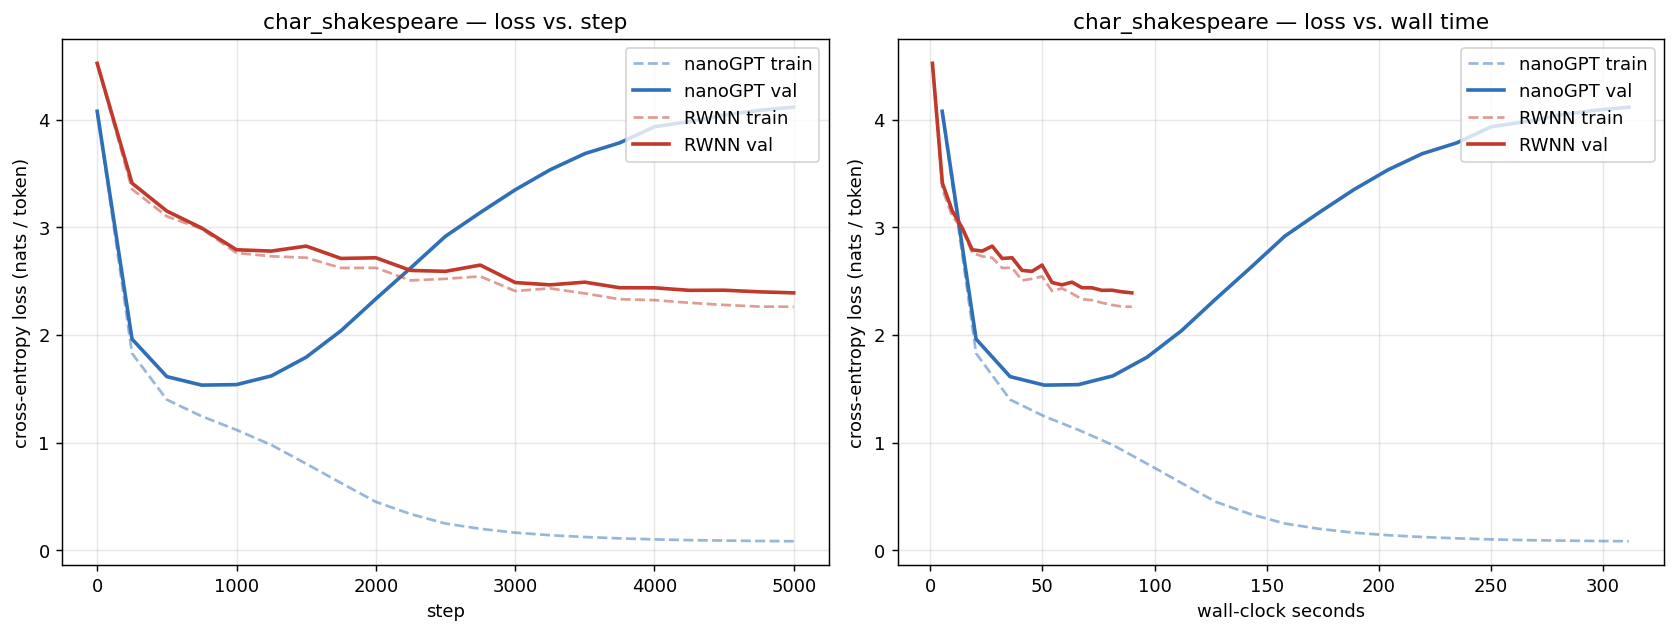
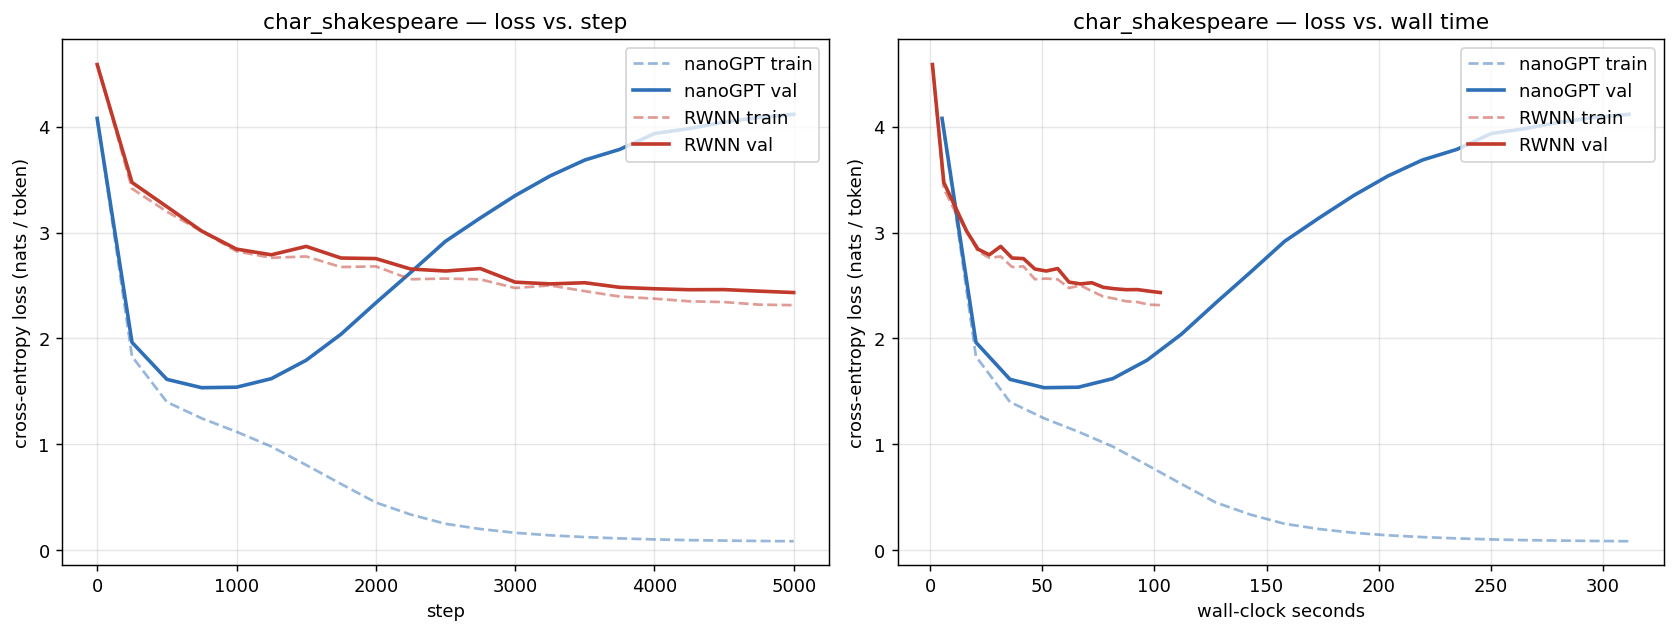
Compact weight tensor: only kind 0/1 edges have learnable weights
Product (kind=2) and softmax-aggregator (kind=3) nodes don't have
learnable weights — every incoming edge is a pure activation read.
Previously the weights tensor allocated a slot per edge regardless of
destination kind; the unused slots inflated the reported parameter
count. The fix is a compact CSR-style index:

  RandomDAG.node_weight_offsets : int32 [N+1]
  RandomDAG.n_live_edges        : int  (= node_weight_offsets[-1])

Only kind-0 and kind-1 destinations contribute slots; kind-2 and kind-3
contribute zero. The three Triton kernels (forward_level,
backward_propagate, backward_weight) now address weights as
weights[w_start + (k - start)] instead of weights[k], where
w_start = node_weight_offsets[i].

Numerics unchanged — the previous code was zero-weight-padding the
unused slots; the compact tensor is bookkeeping only.

comparison/configs.py: char_shakespeare bumped n_nodes 35,000 -> 36,500
so live RWNN params (10,806,924) match nanoGPT's 10,745,088 within 0.6%.

Char-Shakespeare rerun under the new accounting reproduced the previous
val 2.4337 exactly (CSV/log/PNG regenerated).

diff --git a/LLM/src/rwnn/kernels.py b/LLM/src/rwnn/kernels.py
@@ -43,11 +43,12 @@ from triton.language.extra import libdevice
 def forward_level_kernel(
     a_ptr,                 # float32 [N, B] — activations (written for this level)
     pre_ptr,               # float32 [N, B] — pre-activations (written for this level)
-    weights_ptr,           # float32 [E]
+    weights_ptr,           # float32 [E_live]   — only weighted edges (kind 0,1 destinations)
     level_nodes_ptr,       # int32   [n_level]
     parent_offsets_ptr,    # int32   [N+1]
     parent_ids_ptr,        # int32   [E]
-    node_kinds_ptr,        # int8    [N] — 0 linear, 1 bilinear
+    node_kinds_ptr,        # int8    [N] — 0 linear, 1 bilinear, 2 product, 3 attention
+    node_weight_offsets_ptr,  # int32 [N+1] — start of node i's weights in weights_ptr
     B,                     # int — batch size
     BLOCK_B: tl.constexpr,
     ACT: tl.constexpr,     # 0 = linear, 1 = tanh
@@ -59,6 +60,7 @@ def forward_level_kernel(
     start = tl.load(parent_offsets_ptr + i).to(tl.int64)
     end = tl.load(parent_offsets_ptr + i + 1).to(tl.int64)
     kind = tl.load(node_kinds_ptr + i).to(tl.int32)
+    w_start = tl.load(node_weight_offsets_ptr + i).to(tl.int64)
 
     offs_b = pid_b * BLOCK_B + tl.arange(0, BLOCK_B)
     mask_b = offs_b < B
@@ -69,7 +71,7 @@ def forward_level_kernel(
         # LINEAR: simple weighted sum over parents.
         for k in range(start, end):
             j = tl.load(parent_ids_ptr + k).to(tl.int64)
-            w = tl.load(weights_ptr + k)
+            w = tl.load(weights_ptr + w_start + (k - start))
             a_j = tl.load(a_ptr + j * B + offs_b, mask=mask_b, other=0.0)
             acc += w * a_j
     elif kind == 1:
@@ -77,8 +79,8 @@ def forward_level_kernel(
         for k in range(start, end, 2):
             jg = tl.load(parent_ids_ptr + k).to(tl.int64)
             jv = tl.load(parent_ids_ptr + k + 1).to(tl.int64)
-            wg = tl.load(weights_ptr + k)
-            wv = tl.load(weights_ptr + k + 1)
+            wg = tl.load(weights_ptr + w_start + (k - start))
+            wv = tl.load(weights_ptr + w_start + (k - start) + 1)
             a_g = tl.load(a_ptr + jg * B + offs_b, mask=mask_b, other=0.0)
             a_v = tl.load(a_ptr + jv * B + offs_b, mask=mask_b, other=0.0)
             zg = wg * a_g
@@ -172,11 +174,12 @@ def backward_propagate_kernel(
     a_ptr,                  # float32 [N, B] — needed to recompute g, v, scores
     pre_ptr,                # float32 [N, B] — needed for softmax-agg backward
     d_pre_ptr,              # float32 [N, B]
-    weights_ptr,            # float32 [E]
+    weights_ptr,            # float32 [E_live]
     level_nodes_ptr,        # int32 [n_level]
     parent_offsets_ptr,     # int32 [N+1]
     parent_ids_ptr,         # int32 [E]
     node_kinds_ptr,         # int8  [N]
+    node_weight_offsets_ptr,  # int32 [N+1]
     B,
     BLOCK_B: tl.constexpr,
 ):
@@ -187,6 +190,7 @@ def backward_propagate_kernel(
     start = tl.load(parent_offsets_ptr + i).to(tl.int64)
     end = tl.load(parent_offsets_ptr + i + 1).to(tl.int64)
     kind = tl.load(node_kinds_ptr + i).to(tl.int32)
+    w_start = tl.load(node_weight_offsets_ptr + i).to(tl.int64)
 
     offs_b = pid_b * BLOCK_B + tl.arange(0, BLOCK_B)
     mask_b = offs_b < B
@@ -197,7 +201,7 @@ def backward_propagate_kernel(
         # LINEAR: each edge contributes w * d_pre to its parent.
         for k in range(start, end):
             j = tl.load(parent_ids_ptr + k).to(tl.int64)
-            w = tl.load(weights_ptr + k)
+            w = tl.load(weights_ptr + w_start + (k - start))
             tl.atomic_add(d_a_ptr + j * B + offs_b, w * d_pre_i, mask=mask_b)
     elif kind == 1:
         # BILINEAR: each (gate, value) pair contributes
@@ -207,8 +211,8 @@ def backward_propagate_kernel(
         for k in range(start, end, 2):
             jg = tl.load(parent_ids_ptr + k).to(tl.int64)
             jv = tl.load(parent_ids_ptr + k + 1).to(tl.int64)
-            wg = tl.load(weights_ptr + k)
-            wv = tl.load(weights_ptr + k + 1)
+            wg = tl.load(weights_ptr + w_start + (k - start))
+            wv = tl.load(weights_ptr + w_start + (k - start) + 1)
             a_g = tl.load(a_ptr + jg * B + offs_b, mask=mask_b, other=0.0)
             a_v = tl.load(a_ptr + jv * B + offs_b, mask=mask_b, other=0.0)
             zg = wg * a_g
@@ -265,13 +269,14 @@ def backward_propagate_kernel(
 def backward_weight_kernel(
     a_ptr,                  # float32 [N, B]
     d_pre_ptr,              # float32 [N, B]
-    weights_ptr,            # float32 [E]    — needed for bilinear partner weight
+    weights_ptr,            # float32 [E_live]   — needed for bilinear partner weight
     edge_src_ptr,           # int32 [E]
     edge_dst_ptr,           # int32 [E]
     parent_offsets_ptr,     # int32 [N+1]    — to compute partner edge index
     parent_ids_ptr,         # int32 [E]      — to look up partner src
     node_kinds_ptr,         # int8  [N]
-    d_w_ptr,                # float32 [E]    — output
+    node_weight_offsets_ptr,  # int32 [N+1]
+    d_w_ptr,                # float32 [E_live]   — gradient for compact weights
     B,
     BLOCK_B: tl.constexpr,
 ):
@@ -280,6 +285,17 @@ def backward_weight_kernel(
     src = tl.load(edge_src_ptr + e).to(tl.int64)
     dst = tl.load(edge_dst_ptr + e).to(tl.int64)
     kind = tl.load(node_kinds_ptr + dst).to(tl.int32)
+
+    # PRODUCT (2) and SOFTMAX_AGG (3): no weight allocated, no gradient
+    # to compute. Skip entirely (no store needed — weights tensor doesn't
+    # have a slot for this edge).
+    if kind >= 2:
+        return
+
+    dst_parent_start = tl.load(parent_offsets_ptr + dst).to(tl.int64)
+    dst_w_start = tl.load(node_weight_offsets_ptr + dst).to(tl.int64)
+    pos_in_dst = e - dst_parent_start
+    w_idx = dst_w_start + pos_in_dst
 
     if kind == 0:
         # LINEAR: d w_e = Σ_b a[src, b] * d_pre[dst, b]
@@ -293,25 +309,21 @@ def backward_weight_kernel(
             acc += a_src * d_pre_dst
             off += BLOCK_B
         total = tl.sum(acc, axis=0)
-        tl.store(d_w_ptr + e, total)
-    elif kind >= 2:
-        # PRODUCT (2) and SOFTMAX_AGG (3) have no learnable weights — the
-        # weight tensor entries for these edges are unused. d_w[e] = 0.
-        tl.store(d_w_ptr + e, 0.0)
+        tl.store(d_w_ptr + w_idx, total)
     else:
         # BILINEAR: depends on whether this edge is the gate (even pos in
         # parent list) or the value (odd pos). Partner edge gives us the
         # other side of the pair.
-        dst_start = tl.load(parent_offsets_ptr + dst).to(tl.int64)
-        pos = e - dst_start
-        is_gate = (pos % 2) == 0
+        is_gate = (pos_in_dst % 2) == 0
         if is_gate:
             partner_e = e + 1
+            partner_w_idx = w_idx + 1
         else:
             partner_e = e - 1
+            partner_w_idx = w_idx - 1
         partner_src = tl.load(parent_ids_ptr + partner_e).to(tl.int64)
-        w_partner = tl.load(weights_ptr + partner_e)
-        w_self = tl.load(weights_ptr + e)
+        w_partner = tl.load(weights_ptr + partner_w_idx)
+        w_self = tl.load(weights_ptr + w_idx)
 
         acc = tl.zeros([BLOCK_B], dtype=tl.float32)
         off = 0
@@ -337,4 +349,4 @@ def backward_weight_kernel(
                 acc += g * a_self * d_pre_dst
             off += BLOCK_B
         total = tl.sum(acc, axis=0)
-        tl.store(d_w_ptr + e, total)
+        tl.store(d_w_ptr + w_idx, total)

diff --git a/LLM/src/rwnn/model.py b/LLM/src/rwnn/model.py
@@ -35,7 +35,7 @@ class RWNNFunction(torch.autograd.Function):
     def forward(
         ctx,
         x: torch.Tensor,             # [B, n_in]
-        weights: torch.Tensor,       # [E]
+        weights: torch.Tensor,       # [E_live]
         parent_offsets: torch.Tensor,
         parent_ids: torch.Tensor,
         edge_src: torch.Tensor,
@@ -47,6 +47,7 @@ class RWNNFunction(torch.autograd.Function):
         bias_ids: torch.Tensor,
         output_ids: torch.Tensor,
         node_kinds: torch.Tensor,
+        node_weight_offsets: torch.Tensor,
         n_nodes: int,
     ) -> torch.Tensor:
         assert x.is_cuda and weights.is_cuda, "RWNN requires CUDA tensors"
@@ -84,6 +85,7 @@ class RWNNFunction(torch.autograd.Function):
                 parent_offsets,
                 parent_ids,
                 node_kinds,
+                node_weight_offsets,
                 B,
                 BLOCK_B=_BLOCK_B,
                 ACT=act,
@@ -95,11 +97,12 @@ class RWNNFunction(torch.autograd.Function):
             a, pre, weights,
             parent_offsets, parent_ids, edge_src, edge_dst,
             level_nodes, level_starts, level_is_output,
-            input_ids, output_ids, node_kinds,
+            input_ids, output_ids, node_kinds, node_weight_offsets,
         )
         ctx.B = B
         ctx.N = N
         ctx.n_edges = int(edge_src.numel())
+        ctx.n_live_edges = int(weights.numel())
         return out
 
     @staticmethod
@@ -107,10 +110,12 @@ class RWNNFunction(torch.autograd.Function):
         (a, pre, weights,
          parent_offsets, parent_ids, edge_src, edge_dst,
          level_nodes, level_starts, level_is_output,
-         input_ids, output_ids, node_kinds) = ctx.saved_tensors
+         input_ids, output_ids, node_kinds,
+         node_weight_offsets) = ctx.saved_tensors
         B = ctx.B
         N = ctx.N
         E = ctx.n_edges
+        E_live = ctx.n_live_edges
         device = a.device
 
         d_a = torch.zeros((N, B), device=device, dtype=torch.float32)
@@ -137,16 +142,18 @@ class RWNNFunction(torch.autograd.Function):
             )
             backward_propagate_kernel[grid](
                 d_a, a, pre, d_pre, weights, level_slice,
-                parent_offsets, parent_ids, node_kinds,
+                parent_offsets, parent_ids, node_kinds, node_weight_offsets,
                 B, BLOCK_B=_BLOCK_B,
             )
 
-        # Per-edge weight gradient.
-        d_w = torch.zeros(E, device=device, dtype=torch.float32)
+        # Per-(live-)edge weight gradient. d_w has compact shape [E_live].
+        # Kernel grid still iterates all E edges; for kind 2/3 destinations
+        # the kernel returns early without writing.
+        d_w = torch.zeros(E_live, device=device, dtype=torch.float32)
         if E > 0:
             backward_weight_kernel[(E,)](
                 a, d_pre, weights, edge_src, edge_dst,
-                parent_offsets, parent_ids, node_kinds,
+                parent_offsets, parent_ids, node_kinds, node_weight_offsets,
                 d_w,
                 B, BLOCK_B=_BLOCK_B,
             )
@@ -157,7 +164,7 @@ class RWNNFunction(torch.autograd.Function):
         # Return grads for every argument of forward() in order.
         return (d_x, d_w,
                 None, None, None, None, None, None, None,
-                None, None, None, None, None)
+                None, None, None, None, None, None)
 
 
 class RWNN(torch.nn.Module):
@@ -173,20 +180,28 @@ class RWNN(torch.nn.Module):
         graph = graph.to(device)
         self._n_nodes = graph.n_nodes
         self._n_edges = graph.n_edges
+        self._n_live_edges = graph.n_live_edges
         self._n_levels = graph.n_levels
         self._n_in = graph.n_in
         self._n_bias = graph.n_bias
         self._n_hidden = graph.n_hidden
         self._n_out = graph.n_out
 
-        # Per-destination Xavier-ish weight init: U(-k, +k) with
-        # k = sqrt(6 / (fan_in + fan_out_estimate)), but fan_out varies
-        # wildly per node in a random DAG. Use the simpler 1/sqrt(fan_in)
-        # rule evaluated per destination.
+        # Per-destination 1/√fan_in init, only for *live* edges (i.e. those
+        # going into kind 0 or 1 destinations). Product (kind 2) and
+        # softmax-aggregator (kind 3) nodes have no learnable per-edge
+        # weights; we don't allocate slots for them.
         edge_dst_long = graph.edge_dst.long()
         fan_in_per_edge = graph.fan_in[edge_dst_long].clamp(min=1).float()
-        scale = (1.0 / fan_in_per_edge.sqrt()) * math.sqrt(3.0)
-        w = (torch.rand(graph.n_edges, device=device) * 2 - 1) * scale
+        edge_kind = graph.node_kinds.to(torch.int64)[edge_dst_long]
+        is_live_edge = (edge_kind <= 1)
+        live_fan_in = fan_in_per_edge[is_live_edge]
+        scale = (1.0 / live_fan_in.sqrt()) * math.sqrt(3.0)
+        n_live = int(is_live_edge.sum().item())
+        assert n_live == graph.n_live_edges, (
+            f"live edge count mismatch: {n_live} vs {graph.n_live_edges}"
+        )
+        w = (torch.rand(n_live, device=device) * 2 - 1) * scale
         self.weights = torch.nn.Parameter(w.contiguous())
 
         # Graph tensors as non-learnable buffers.
@@ -201,6 +216,8 @@ class RWNN(torch.nn.Module):
         self.register_buffer("bias_ids", graph.bias_ids.contiguous())
         self.register_buffer("output_ids", graph.output_ids.contiguous())
         self.register_buffer("node_kinds", graph.node_kinds.contiguous())
+        self.register_buffer("node_weight_offsets",
+                             graph.node_weight_offsets.contiguous())
 
     def forward(self, x: torch.Tensor) -> torch.Tensor:
         if x.dim() == 1:
@@ -212,7 +229,7 @@ class RWNN(torch.nn.Module):
             self.edge_src, self.edge_dst,
             self.level_nodes, self.level_starts, self.level_is_output,
             self.input_ids, self.bias_ids, self.output_ids,
-            self.node_kinds,
+            self.node_kinds, self.node_weight_offsets,
             self._n_nodes,
         )
 

diff --git a/LLM/src/rwnn/graph.py b/LLM/src/rwnn/graph.py
@@ -61,10 +61,18 @@ class RandomDAG:
     # Per-node fan-in, handy for weight init.
     fan_in: torch.Tensor          # int32 [N]
 
-    # Per-node kind. 0 = LINEAR, 1 = BILINEAR (gating). Bilinear nodes
-    # have an even number of parents paired as (gate, value); they
-    # compute  tanh( Σ_pairs σ(w_g · a_g) · w_v · a_v ).
+    # Per-node kind. 0 = LINEAR, 1 = BILINEAR (gating), 2 = PRODUCT,
+    # 3 = SOFTMAX_AGG (attention). Linear and bilinear nodes use
+    # learnable per-edge weights; product and softmax_agg do not.
     node_kinds: torch.Tensor      # int8 [N]
+
+    # CSR over the *learnable* weight tensor. node_weight_offsets[i] is
+    # the position in the compact weights array where node i's weights
+    # begin; node i has node_weight_offsets[i+1] − node_weight_offsets[i]
+    # weights, equal to its parent count for kind ∈ {0,1} and zero
+    # otherwise. n_live_edges == node_weight_offsets[-1] is the total
+    # learnable weight count.
+    node_weight_offsets: torch.Tensor  # int32 [N+1]
 
     # Convenience.
     input_ids: torch.Tensor       # int32 [n_in]
@@ -78,6 +86,11 @@ class RandomDAG:
     @property
     def n_edges(self) -> int:
         return int(self.parent_ids.numel())
+
+    @property
+    def n_live_edges(self) -> int:
+        """Number of *weighted* edges (kind 0 or 1 destinations only)."""
+        return int(self.node_weight_offsets[-1].item())
 
     @property
     def n_levels(self) -> int:
@@ -163,6 +176,18 @@ def _assemble_dag(
         node_kinds_np = np.asarray(node_kinds, dtype=np.int8)
         assert node_kinds_np.shape == (N,)
 
+    # Compact weight indexing. Each node i with kind ∈ {0, 1} contributes
+    # parent_count[i] learnable weights; kind ∈ {2, 3} contributes 0.
+    # node_weight_offsets[i] is the start offset of node i's weights in
+    # the compact weights tensor; node_weight_offsets[-1] is the total
+    # number of learnable weights (n_live_edges).
+    node_weight_count_np = np.zeros(N, dtype=np.int64)
+    parent_count_np = np.diff(parent_offsets_np)
+    is_weighted_kind = np.isin(node_kinds_np, (0, 1))
+    node_weight_count_np[is_weighted_kind] = parent_count_np[is_weighted_kind]
+    node_weight_offsets_np = np.zeros(N + 1, dtype=np.int64)
+    np.cumsum(node_weight_count_np, out=node_weight_offsets_np[1:])
+
     return RandomDAG(
         n_in=n_in,
         n_bias=n_bias,
@@ -177,6 +202,7 @@ def _assemble_dag(
         level_is_output=torch.as_tensor(level_is_output_np),
         fan_in=t(fan_in_np),
         node_kinds=torch.as_tensor(node_kinds_np, dtype=torch.int8),
+        node_weight_offsets=t(node_weight_offsets_np),
         input_ids=t(np.arange(0, inputs_end, dtype=np.int64)),
         bias_ids=t(np.arange(inputs_end, bias_end, dtype=np.int64)),
         output_ids=t(np.arange(hidden_end, N, dtype=np.int64)),

diff --git a/comparison/configs.py b/comparison/configs.py
@@ -82,7 +82,7 @@ char_shakespeare = CompareConfig(
     dropout=0.0,
     bias=False,
     rwnn_d_model=64,
-    rwnn_n_nodes=35_000,
+    rwnn_n_nodes=36_500,           # tuned so live (effective) params ≈ nanoGPT 10.7M
     rwnn_n_layers=6,
     rwnn_edge_prob=0.025,
     rwnn_bilinear_fraction=0.10,
